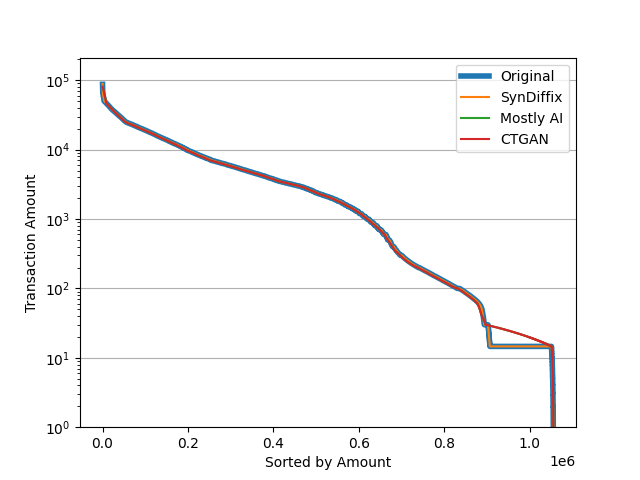
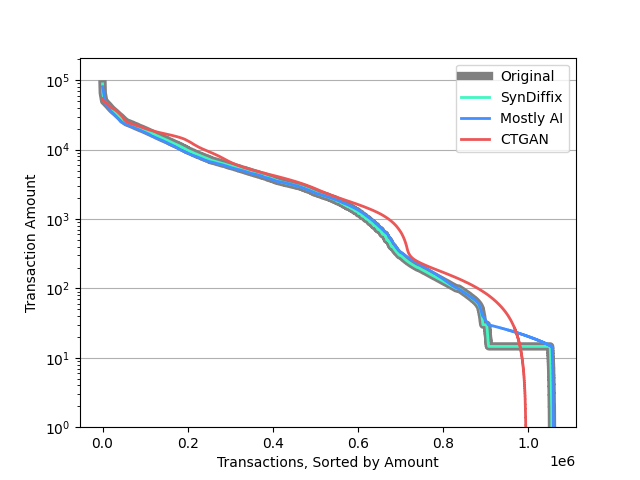
Good version of dataPrep

diff --git a/dataPrep/analysis.py b/dataPrep/analysis.py
@@ -7,7 +7,29 @@ import requests
 import pprint
 import matplotlib.pyplot as plt
 import seaborn as sns
+import matplotlib.patches as patches
 from syndiffix import Synthesizer
+
+'''
+type
+VYDAJ     634571        issue or publish
+PRIJEM    405083        receiving
+VYBER      16666        select, choose
+operation
+VYBER             434918    select, choose      minus
+PREVOD NA UCET    208283    transfer            minus
+VKLAD             156743    deposit             plus
+PREVOD Z UCTU      65226    withdrawl           minus
+VYBER KARTOU        8036    withdrawl by card   minus
+frequency
+POPLATEK MESICNE      969253    monthly fee
+POPLATEK TYDNE         62567    weekly fee
+POPLATEK PO OBRATU     24500    fee after turnover
+'''
+
+cols = {'orig':'grey', 'ct':'#eb5757', 'mo':'#438fff', 'syn':'#42f7c0'}
+wids = {'orig':6, 'ct':2, 'mo':2, 'syn':2}
+lebs = {'orig':'Original', 'ct':'CTGAN', 'mo':'Mostly AI', 'syn':'SynDiffix'}
 
 pp = pprint.PrettyPrinter(indent=4)
 
@@ -31,6 +53,8 @@ def getDf(fileName, dataDir=datasetsPath):
         # load the pickle object
         #return pickle.load(f)
     print(f"{fileName} has {len(df)} rows")
+    if 'account_id' in list(df.columns):
+        print(f"    and {df['account_id'].nunique()} distinct account_id")
     return df
 
 def saveDf(fileName, df, dataDir=datasetsPath):
@@ -40,9 +64,11 @@ def saveDf(fileName, df, dataDir=datasetsPath):
         pickle.dump(df, f)
     df.to_csv(fn_csv, index=False)
 
-def makeSynFileName(fileName, columns):
+def makeSynFileName(fileName, columns, tag=None):
     for column in columns:
         fileName += f'.{column}'
+    if tag is not None:
+        fileName += f'.{tag}'
     return fileName
 
 def do_synthesize(df, columns, pids, fileName):
@@ -73,44 +99,214 @@ def unify_lengths(*args):
         results.append(df.sample(n=minLen))
     return results
 
+def trans_total_volume_by_month(df, df_mo, df_ct, fileName):
+    df['month'] = df['date'].dt.to_period('M')
+    df['month'] = df['month'].astype(str)
+    print(df[['month','date']].head(20))
+    columns = ['amount','month']
+    pids = ['account_id']
+    df_syn = do_synthesize(df, columns, pids, fileName)
+    df_mo['date'] = pd.to_datetime(df_mo['date'])
+    df_mo['month'] = df_mo['date'].dt.to_period('M')
+    df_mo['month'] = df_mo['month'].astype(str)
+    df_mo = df_mo[columns]
+    if df_ct is not None:
+        df_ct['date'] = pd.to_datetime(df_ct['date'])
+        df_ct['month'] = df_ct['date'].dt.to_period('M')
+        df_ct['month'] = df_ct['month'].astype(str)
+        df_ct = df_ct[columns]
+        df_vol_ct = df_ct.groupby('month')['amount'].sum().reset_index()
+        df_vol_ct.rename(columns={'amount': 'volume'}, inplace=True)
+    df_orig = df[columns]
+    df_vol_orig = df_orig.groupby('month')['amount'].sum().reset_index()
+    df_vol_orig.rename(columns={'amount': 'volume'}, inplace=True)
+    df_vol_syn = df_syn.groupby('month')['amount'].sum().reset_index()
+    df_vol_syn.rename(columns={'amount': 'volume'}, inplace=True)
+    df_vol_mo = df_mo.groupby('month')['amount'].sum().reset_index()
+    df_vol_mo.rename(columns={'amount': 'volume'}, inplace=True)
+    fig, ax = plt.subplots()
+    def do_plot(df_vol_orig, df_vol_syn, df_vol_mo, df_vol_ct, df_ct, ax):
+        sns.lineplot(data=df_vol_orig, x='month', y='volume', label=lebs['orig'], ax=ax, linewidth=wids['orig'], color=cols['orig'])
+        sns.lineplot(data=df_vol_syn, x='month', y='volume', label=lebs['syn'], ax=ax, linewidth=wids['syn'], color=cols['syn'])
+        sns.lineplot(data=df_vol_mo, x='month', y='volume', label=lebs['mo'], ax=ax, linewidth=wids['mo'], color=cols['mo'])
+        if df_ct is not None:
+            sns.lineplot(data=df_vol_ct, x='month', y='volume', label=lebs['ct'], ax=ax, linewidth=wids['ct'], color=cols['ct'])
+        ax.grid(axis='y')
+        #ax.tick_params(labelbottom=False, bottom=False)
+        ax.legend()
+        ax.set(xlabel='Year-Month', ylabel='Total Transaction Volume')
+        xticklabels = ax.get_xticklabels()
+        xticklabels = [label.get_text() for label in xticklabels]
+        xticks = []
+        newlabels = []
+        for i in range(len(xticklabels)):
+            if xticklabels[i][-2:] == '01':
+                xticks.append(i)
+                newlabels.append(xticklabels[i])
+        ax.set_xticks(xticks)
+        ax.set_xticklabels(newlabels)  # Set the x-tick labels
+    do_plot(df_vol_orig, df_vol_syn, df_vol_mo, df_vol_ct, df_ct, ax)
+    synFilePath = os.path.join('plots', makeSynFileName(fileName, columns)+'.png')
+    plt.savefig(synFilePath)
+    plt.close()
+    fig = plt.figure(figsize=(12, 6))
+    ax1 = plt.subplot2grid((2, 3), (0, 0), colspan=2, rowspan=2)
+    ax2 = plt.subplot2grid((2, 3), (0, 2))
+    ax3 = plt.subplot2grid((2, 3), (1, 2))
+    do_plot(df_vol_orig, df_vol_syn, df_vol_mo, df_vol_ct, df_ct, ax1)
+    rect = patches.Rectangle((12.5, 20000000), 4, 40000000, linewidth=1, edgecolor='black', facecolor='none', linestyle='dotted')
+    ax1.add_patch(rect)
+    rect = patches.Rectangle((64.5, 140000000), 3, 80000000, linewidth=1, edgecolor='black', facecolor='none', linestyle='dotted')
+    ax1.add_patch(rect)
+    sns.lineplot(data=df_vol_orig, x='month', y='volume', label=lebs['orig'], ax=ax2, linewidth=wids['orig'], color=cols['orig'])
+    sns.lineplot(data=df_vol_syn, x='month', y='volume', label=lebs['syn'], ax=ax2, linewidth=wids['syn'], color=cols['syn'])
+    sns.lineplot(data=df_vol_mo, x='month', y='volume', label=lebs['mo'], ax=ax2, linewidth=wids['mo'], color=cols['mo'])
+    sns.lineplot(data=df_vol_ct, x='month', y='volume', label=lebs['ct'], ax=ax2, linewidth=wids['ct'], color=cols['ct'])
+    sns.lineplot(data=df_vol_orig, x='month', y='volume', label=lebs['orig'], ax=ax3, linewidth=wids['orig'], color=cols['orig'])
+    sns.lineplot(data=df_vol_syn, x='month', y='volume', label=lebs['syn'], ax=ax3, linewidth=wids['syn'], color=cols['syn'])
+    sns.lineplot(data=df_vol_mo, x='month', y='volume', label=lebs['mo'], ax=ax3, linewidth=wids['mo'], color=cols['mo'])
+    sns.lineplot(data=df_vol_ct, x='month', y='volume', label=lebs['ct'], ax=ax3, linewidth=wids['ct'], color=cols['ct'])
+    ax2.set_ylim(bottom=20000000, top=60000000)
+    ax2.set_xlim(left=12.5, right=16.5)
+    ax2.set(xlabel='', ylabel='')
+    ax2.get_legend().remove()
+    ax3.set_ylim(bottom=140000000, top=220000000)
+    ax3.set_xlim(left=64.5, right=67.5)
+    ax3.set(xlabel='', ylabel='')
+    ax3.get_legend().remove()
+    synFilePath = os.path.join('plots', makeSynFileName(fileName, columns, tag='grid')+'.png')
+    plt.savefig(synFilePath)
+    plt.close()
+
+def trans_avg_balance_by_cctype(df, df_mo, df_ct, fileName):
+    def get_avg_bal_and_cctype(df):
+        df = df[df['card_type'].isin(['gold', 'junior', 'classic'])]
+        df_avg_bal = df.groupby('account_id')['balance'].mean().reset_index()
+        df_avg_bal.rename(columns={'balance': 'avg_balance'}, inplace=True)
+        df_cctype = df.groupby('account_id')['card_type'].max().reset_index()
+        df_merged = pd.merge(df_avg_bal, df_cctype, on='account_id', how='inner')
+        print(f"rows df_avg_bal {len(df_avg_bal)}, df_cctype {len(df_cctype)}, df_merged {len(df_merged)}")
+        print(df_merged.head())
+        return df_merged
+    df_orig = get_avg_bal_and_cctype(df)
+    df_mo = get_avg_bal_and_cctype(df_mo)
+    if df_ct is not None:
+        df_ct = get_avg_bal_and_cctype(df_ct)
+        df_ct['method'] = lebs['ct']
+    columns = ['avg_balance','card_type']
+    pids = ['account_id']
+    df_syn = do_synthesize(df_orig, columns, pids, fileName)
+    print(f"df_syn has columns {list(df_syn.columns)}")
+    df_orig['method'] = lebs['orig']
+    df_syn['method'] = lebs['syn']
+    df_mo['method'] = lebs['mo']
+    if df_ct is not None:
+        df_all = pd.concat([df_orig, df_syn, df_ct, df_mo])
+    else:
+        df_all = pd.concat([df_orig, df_syn, df_mo])
+
+    fig, axs = plt.subplots(nrows=1, ncols=2, figsize=(10, 4.5))
+    sns.boxplot(x='card_type', y='avg_balance', hue='method', data=df_all, ax=axs[0])
+    axs[0].set_xlabel('Card Type')
+    axs[0].set_ylabel('Average Account Balance')
+    axs[0].set_ylim(bottom=-20000, top=140000)
+    axs[0].grid(axis='y')
+    sns.boxplot(x='method', y='avg_balance', hue='card_type', data=df_all, ax=axs[1])
+    axs[1].set_xlabel('Synthesis Method')
+    axs[1].set_ylabel('Average Account Balance')
+    axs[1].set_ylim(bottom=-20000, top=160000)
+    axs[1].grid(axis='y')
+    plt.tight_layout()
+    synFilePath = os.path.join('plots', makeSynFileName(fileName, columns)+'.png')
+    plt.savefig(synFilePath)
+    plt.close()
+
+def trans_amounts_in_out_sorted(df, df_mo, df_ct, fileName):
+    ''' Make a graph with the transaction amounts sorted high to low
+    '''
+    columns = ['amount','operation']
+    pids = ['account_id']
+    df_syn = do_synthesize(df, columns, pids, fileName)
+    print(f"df_syn has columns {list(df_syn.columns)}")
+    df_mo = df_mo[columns]
+    if df_ct is not None:
+        df_ct = df_ct[columns]
+    df_orig = df[columns]
+    df_orig, df_mo, df_syn = unify_lengths(df_orig, df_mo, df_syn)
+    # We want to divide these by deposits and withdrawls
+    # operation VKLAD is deposit, everything else is withdraw
+    def dep_and_sort(df):
+        df_in = df[df['operation'] == 'VKLAD']
+        df_out = df[df['operation'] != 'VKLAD']
+        df_in = df_in.sort_values(by=columns, ascending=False)
+        df_in = df_in.reset_index(drop=True)
+        df_in.index.name = 'index'
+        df_out = df_out.sort_values(by=columns, ascending=False)
+        df_out = df_out.reset_index(drop=True)
+        df_out.index.name = 'index'
+        return df_in, df_out
+    df_syn_in, df_syn_out = dep_and_sort(df_syn)
+    df_mo_in, df_mo_out = dep_and_sort(df_mo)
+    if df_ct is not None:
+        df_ct_in, df_ct_out = dep_and_sort(df_ct)
+    df_orig_in, df_orig_out = dep_and_sort(df_orig)
+    synFilePath = os.path.join('plots', makeSynFileName(fileName, columns)+'.png')
+    fig, ax = plt.subplots()
+    sns.lineplot(data=df_orig_in, x=df_orig_in.index.name, y='amount', label=lebs['orig'], ax=ax, linewidth=wids['orig'], color=cols['orig'])
+    sns.lineplot(data=df_syn_in, x=df_syn_in.index.name, y='amount', label=lebs['syn'], ax=ax, linewidth=wids['syn'], color=cols['syn'])
+    sns.lineplot(data=df_mo_in, x=df_mo_in.index.name, y='amount', label=lebs['mo'], ax=ax, linewidth=wids['mo'], color=cols['mo'])
+    if df_ct is not None:
+        sns.lineplot(data=df_ct_in, x=df_ct_in.index.name, y='amount', label=lebs['ct'], ax=ax, linewidth=wids['ct'], color=cols['ct'])
+    sns.lineplot(data=df_orig_out, x=df_orig_out.index.name, y='amount',  ax=ax, linewidth=wids['orig'], color=cols['orig'])
+    sns.lineplot(data=df_syn_out, x=df_syn_out.index.name, y='amount', ax=ax, linewidth=wids['syn'], color=cols['syn'])
+    sns.lineplot(data=df_mo_out, x=df_mo_out.index.name, y='amount', ax=ax, linewidth=wids['mo'], color=cols['mo'])
+    if df_ct is not None:
+        sns.lineplot(data=df_ct_out, x=df_ct_out.index.name, y='amount', ax=ax, linewidth=wids['ct'], color=cols['ct'])
+    ax.set_yscale('log')
+    ax.set_ylim([1,None])
+    ax.grid(axis='y')
+    #ax.tick_params(labelbottom=False, bottom=False)
+    ax.legend()
+    ax.set(xlabel='Deposits and Withdrawls, Sorted by Amount', ylabel='Deposit/Withdrawal Amount')
+    plt.savefig(synFilePath)
+    plt.close()
+
 def trans_amounts_sorted(df, df_mo, df_ct, fileName):
     ''' Make a graph with the transaction amounts sorted high to low
     '''
-    print(list(df.columns))
-    print(list(df_mo.columns))
-    print(list(df_ct.columns))
     columns = ['amount']
     pids = ['account_id']
     df_syn = do_synthesize(df, columns, pids, fileName)
     print(f"df_syn has columns {list(df_syn.columns)}")
     df_mo = df_mo[columns]
-    df_ct = df_ct[columns]
     df_orig = df[columns]
-    df_orig, df_syn, df_mo, df_ct = unify_lengths(df_orig, df_syn, df_mo, df_ct)
+    if df_ct is not None:
+        df_ct = df_ct[columns]
+        df_ct = df_ct.sort_values(by=columns, ascending=False)
+        df_ct = df_ct.reset_index(drop=True)
+        df_ct.index.name = 'index'
     df_syn = df_syn.sort_values(by=columns, ascending=False)
     df_syn = df_syn.reset_index(drop=True)
     df_syn.index.name = 'index'
     df_mo = df_mo.sort_values(by=columns, ascending=False)
     df_mo = df_mo.reset_index(drop=True)
     df_mo.index.name = 'index'
-    df_ct = df_ct.sort_values(by=columns, ascending=False)
-    df_ct = df_ct.reset_index(drop=True)
-    df_ct.index.name = 'index'
     df_orig = df_orig.sort_values(by=columns, ascending=False)
     df_orig = df_orig.reset_index(drop=True)
     df_orig.index.name = 'index'
     synFilePath = os.path.join('plots', makeSynFileName(fileName, columns)+'.png')
     fig, ax = plt.subplots()
-    sns.lineplot(data=df_orig, x=df_orig.index.name, y='amount', label='Original', ax=ax, linewidth=4)
-    sns.lineplot(data=df_syn, x=df_syn.index.name, y='amount', label='SynDiffix', ax=ax)
-    sns.lineplot(data=df_mo, x=df_mo.index.name, y='amount', label='Mostly AI', ax=ax)
-    sns.lineplot(data=df_ct, x=df_ct.index.name, y='amount', label='CTGAN', ax=ax)
+    sns.lineplot(data=df_orig, x=df_orig.index.name, y='amount', label=lebs['orig'], ax=ax, linewidth=wids['orig'], color=cols['orig'])
+    sns.lineplot(data=df_syn, x=df_syn.index.name, y='amount', label=lebs['syn'], ax=ax, linewidth=wids['syn'], color=cols['syn'])
+    sns.lineplot(data=df_mo, x=df_mo.index.name, y='amount', label=lebs['mo'], ax=ax, linewidth=wids['mo'], color=cols['mo'])
+    if df_ct is not None:
+        sns.lineplot(data=df_ct, x=df_ct.index.name, y='amount', label=lebs['ct'], ax=ax, linewidth=wids['ct'], color=cols['ct'])
     ax.set_yscale('log')
     ax.set_ylim([1,None])
     ax.grid(axis='y')
     #ax.tick_params(labelbottom=False, bottom=False)
     ax.legend()
-    ax.set(xlabel='Sorted by Amount', ylabel='Transaction Amount')
+    ax.set(xlabel='Transactions, Sorted by Amount', ylabel='Transaction Amount')
     plt.savefig(synFilePath)
     plt.close()
 
@@ -129,10 +325,11 @@ def trans_max_balance_sorted(df, df_mo, df_ct, fileName):
     df_mo_max_balance.rename(columns={'balance': 'max_balance'}, inplace=True)
     print(f"df_mo_max_balance has {len(df_mo_max_balance)} rows, and {df_mo_max_balance['account_id'].nunique()} distinct account_id")
 
-    print(f"df_ct has {len(df_ct)} rows, and {df_ct['account_id'].nunique()} distinct account_id")
-    df_ct_max_balance = df_ct.groupby('account_id')['balance'].max().reset_index()
-    df_ct_max_balance.rename(columns={'balance': 'max_balance'}, inplace=True)
-    print(f"df_ct_max_balance has {len(df_ct_max_balance)} rows, and {df_ct_max_balance['account_id'].nunique()} distinct account_id")
+    if df_ct is not None:
+        print(f"df_ct has {len(df_ct)} rows, and {df_ct['account_id'].nunique()} distinct account_id")
+        df_ct_max_balance = df_ct.groupby('account_id')['balance'].max().reset_index()
+        df_ct_max_balance.rename(columns={'balance': 'max_balance'}, inplace=True)
+        print(f"df_ct_max_balance has {len(df_ct_max_balance)} rows, and {df_ct_max_balance['account_id'].nunique()} distinct account_id")
 
     # Synthesize the max_balance data
     columns = ['max_balance']
@@ -140,7 +337,11 @@ def trans_max_balance_sorted(df, df_mo, df_ct, fileName):
     df_syn = do_synthesize(df_max_balance, columns, pids, fileName)
     print(f"df_syn has columns {list(df_syn.columns)}")
     df_mo = df_mo_max_balance[columns]
-    df_ct = df_ct_max_balance[columns]
+    if df_ct is not None:
+        df_ct = df_ct_max_balance[columns]
+        df_ct = df_ct.sort_values(by=columns, ascending=False)
+        df_ct = df_ct.reset_index(drop=True)
+        df_ct.index.name = 'index'
     df_orig = df_max_balance[columns]
     df_syn = df_syn.sort_values(by=columns, ascending=False)
     df_syn = df_syn.reset_index(drop=True)
@@ -148,33 +349,47 @@ def trans_max_balance_sorted(df, df_mo, df_ct, fileName):
     df_mo = df_mo.sort_values(by=columns, ascending=False)
     df_mo = df_mo.reset_index(drop=True)
     df_mo.index.name = 'index'
-    df_ct = df_ct.sort_values(by=columns, ascending=False)
-    df_ct = df_ct.reset_index(drop=True)
-    df_ct.index.name = 'index'
     df_orig = df_orig.sort_values(by=columns, ascending=False)
     df_orig = df_orig.reset_index(drop=True)
     df_orig.index.name = 'index'
     synFilePath = os.path.join('plots', makeSynFileName(fileName, columns)+'.png')
     fig, ax = plt.subplots()
-    sns.lineplot(data=df_orig, x=df_orig.index.name, y='max_balance', label='Original', ax=ax, linewidth=4)
-    sns.lineplot(data=df_syn, x=df_syn.index.name, y='max_balance', label='SynDiffix', ax=ax)
-    sns.lineplot(data=df_mo, x=df_mo.index.name, y='max_balance', label='Mostly AI', ax=ax)
-    sns.lineplot(data=df_ct, x=df_ct.index.name, y='max_balance', label='CTGAN', ax=ax)
-    ax.set_yscale('log')
-    ax.set_ylim([1,None])
+    sns.lineplot(data=df_orig, x=df_orig.index.name, y='max_balance', label=lebs['orig'], ax=ax, linewidth=wids['orig'], color=cols['orig'])
+    sns.lineplot(data=df_syn, x=df_syn.index.name, y='max_balance', label=lebs['syn'], ax=ax, linewidth=wids['syn'], color=cols['syn'])
+    sns.lineplot(data=df_mo, x=df_mo.index.name, y='max_balance', label=lebs['mo'], ax=ax, linewidth=wids['mo'], color=cols['mo'])
+    if df_ct is not None:
+        sns.lineplot(data=df_ct, x=df_ct.index.name, y='max_balance', label=lebs['ct'], ax=ax, linewidth=wids['ct'], color=cols['ct'])
+    #ax.set_yscale('log')
     ax.grid(axis='y')
     #ax.tick_params(labelbottom=False, bottom=False)
     ax.legend()
-    ax.set(xlabel='Sorted by Max Balance', ylabel='Transaction Max Balance')
+    ax.set(xlabel='Accounts, Sorted by Max Balance', ylabel='Max Account Balance')
+    plt.tight_layout()
     plt.savefig(synFilePath)
     plt.close()
     pass
 
 df_trans = getDf('trans_account_card_clients')
-df_trans_mo = getDf('trans_account_card_clients.mostly')
+if False:   # Just get some info about transactions
+    for column in ['type', 'operation', 'bank','frequency']:
+        counts = df_trans[column].value_counts()
+        print(counts)
+    df_temp = df_trans[df_trans['account_id'] == '2378']
+    df_temp = df_temp.sort_values(by=['date'])
+    print(df_temp[['operation','amount','balance', 'date']].to_string())
+
+#df_trans_mo = getDf('trans_account_card_clients.mostly')
+df_trans_mo = getDf('trans_account_card_clients.mostly.seq')
 # TODO replace with CTGAN file when I have it
-df_trans_ct = getDf('trans_account_card_clients.mostly')
+df_trans_ct = getDf('trans_account_card_clients.ctgan')
+#df_trans, df_trans_mo = unify_lengths(df_trans, df_trans_mo)
+if True:
+    trans_amounts_in_out_sorted(df_trans, df_trans_mo, df_trans_ct, 'trans_account_card_clients')
 if True:
     trans_amounts_sorted(df_trans, df_trans_mo, df_trans_ct, 'trans_account_card_clients')
 if True:
-    trans_max_balance_sorted(df_trans, df_trans_mo, df_trans_ct, 'trans_account_card_clients')
+    trans_max_balance_sorted(df_trans, df_trans_mo, None, 'trans_account_card_clients')
+if True:
+    trans_avg_balance_by_cctype(df_trans, df_trans_mo, df_trans_ct, 'trans_account_card_clients')
+if True:
+    trans_total_volume_by_month(df_trans, df_trans_mo, df_trans_ct, 'trans_account_card_clients')
